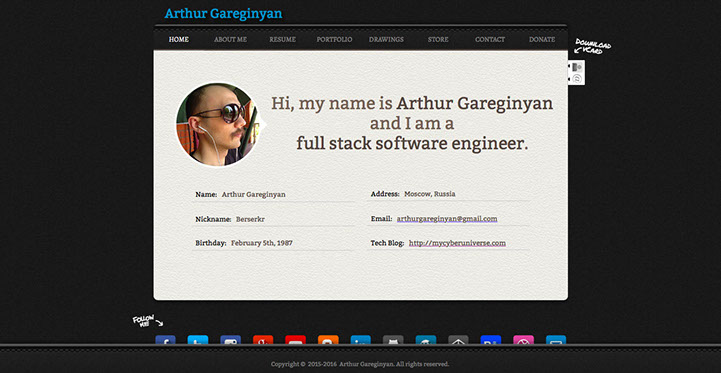
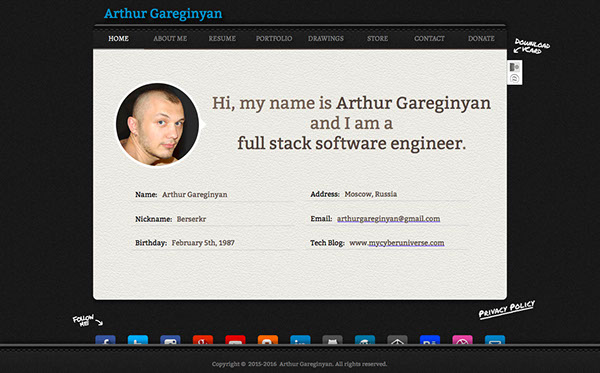
Update

diff --git a/css/master_main.css b/css/master_main.css
@@ -4,8 +4,8 @@
 	-pie-box-shadow: none;
 	box-shadow: none;
 	background-color: transparent;
-	line-height: 35px;
 	color: #0092C4;
+	line-height: 35px;
 	text-align: center;
 	font-size: 29px;
 	font-family: bitter, serif;
@@ -59,8 +59,8 @@
 	border-width: 0px;
 	border-color: transparent;
 	background-color: transparent;
-	line-height: 19px;
 	color: #7F7F7F;
+	line-height: 19px;
 	text-align: center;
 	font-size: 16px;
 	font-family: alegreya-sc, serif;
@@ -114,8 +114,8 @@
 	border-width: 0px;
 	border-color: transparent;
 	background-color: transparent;
-	line-height: 19px;
 	color: #7F7F7F;
+	line-height: 19px;
 	text-align: center;
 	font-size: 16px;
 	font-family: alegreya-sc, serif;
@@ -169,8 +169,8 @@
 	border-width: 0px;
 	border-color: transparent;
 	background-color: transparent;
-	line-height: 19px;
 	color: #7F7F7F;
+	line-height: 19px;
 	text-align: center;
 	font-size: 16px;
 	font-family: alegreya-sc, serif;
@@ -224,8 +224,8 @@
 	border-width: 0px;
 	border-color: transparent;
 	background-color: transparent;
-	line-height: 19px;
 	color: #7F7F7F;
+	line-height: 19px;
 	text-align: center;
 	font-size: 16px;
 	font-family: alegreya-sc, serif;
@@ -279,8 +279,8 @@
 	border-width: 0px;
 	border-color: transparent;
 	background-color: transparent;
-	line-height: 19px;
 	color: #7F7F7F;
+	line-height: 19px;
 	text-align: center;
 	font-size: 16px;
 	font-family: alegreya-sc, serif;
@@ -334,8 +334,8 @@
 	border-width: 0px;
 	border-color: transparent;
 	background-color: transparent;
-	line-height: 19px;
 	color: #7F7F7F;
+	line-height: 19px;
 	text-align: center;
 	font-size: 16px;
 	font-family: alegreya-sc, serif;
@@ -389,8 +389,8 @@
 	border-width: 0px;
 	border-color: transparent;
 	background-color: transparent;
-	line-height: 19px;
 	color: #7F7F7F;
+	line-height: 19px;
 	text-align: center;
 	font-size: 16px;
 	font-family: alegreya-sc, serif;
@@ -449,8 +449,8 @@
 	border-width: 0px;
 	border-color: transparent;
 	background-color: transparent;
-	line-height: 19px;
 	color: #7F7F7F;
+	line-height: 19px;
 	text-align: center;
 	font-size: 16px;
 	font-family: alegreya-sc, serif;
@@ -562,8 +562,8 @@
 #u199-4
 {
 	background-color: transparent;
-	line-height: 16px;
 	color: #777777;
+	line-height: 16px;
 	text-align: center;
 	font-size: 13px;
 	font-family: bitter, serif;

diff --git a/css/donate-success.css b/css/donate-success.css
@@ -1,7 +1,7 @@
 .version.donate_success /* version checker */
 {
-	color: #00000B;
-	background-color: #1DBFF8;
+	color: #000018;
+	background-color: #D96C7A;
 }
 
 #muse_css_mq
@@ -518,8 +518,8 @@
 #pu9685
 {
 	width: 0.01px;
-	margin-left: 88px;
-	margin-top: 22px;
+	margin-left: 73px;
+	margin-top: 7px;
 }
 
 #u9685
@@ -529,8 +529,8 @@
 	min-height: 59px;
 	position: relative;
 	margin-right: -10000px;
-	margin-top: 175px;
-	left: 875px;
+	margin-top: 190px;
+	left: 890px;
 }
 
 #u5355-10
@@ -546,8 +546,8 @@
 	font-weight: 400;
 	position: relative;
 	margin-right: -10000px;
-	margin-top: 35px;
-	left: 199px;
+	margin-top: 50px;
+	left: 214px;
 }
 
 #u9716
@@ -561,20 +561,22 @@
 	transform: matrix(0.7071,-0.7071,0.7071,0.7071,-4,10);
 	position: relative;
 	margin-right: -10000px;
-	margin-top: 90px;
-	left: 188px;
+	margin-top: 105px;
+	left: 202px;
 }
 
 #u9717
 {
 	z-index: 86;
 	width: 199px;
+	height: 200px;
 	border-color: #7F7F7F;
 	background-color: #FFFFFF;
 	border-radius: 125px;
-	padding-bottom: 5px;
 	position: relative;
 	margin-right: -10000px;
+	margin-top: 15px;
+	left: 15px;
 }
 
 #u9718
@@ -583,11 +585,14 @@
 	width: 189px;
 	height: 189px;
 	border-radius: 125px;
+	-webkit-transform: matrix(0.9703,-0.2419,0.2419,0.9703,-20,26);
+	-ms-transform: matrix(0.9703,-0.2419,0.2419,0.9703,-20,26);
+	transform: matrix(0.9703,-0.2419,0.2419,0.9703,-20,26);
 	position: relative;
 	margin-right: -10000px;
-	margin-top: 5px;
-	left: 5px;
-	background: transparent url("../images/avatar-1.jpg") no-repeat center center;
+	margin-top: 20px;
+	left: 20px;
+	background: transparent url("../images/avatar-3-dark.jpg") no-repeat center center;
 	background-size: cover;
 }
 

diff --git a/css/index.css b/css/index.css
@@ -1,7 +1,7 @@
 .version.index /* version checker */
 {
-	color: #000000;
-	background-color: #368554;
+	color: #000011;
+	background-color: #528BEB;
 }
 
 #muse_css_mq
@@ -529,8 +529,8 @@
 	width: 662px;
 	min-height: 143px;
 	background-color: transparent;
-	line-height: 46px;
 	color: #736357;
+	line-height: 46px;
 	text-align: center;
 	font-size: 38px;
 	font-family: bitter, serif;
@@ -615,8 +615,8 @@
 	width: 352px;
 	min-height: 21px;
 	background-color: transparent;
-	line-height: 19px;
 	color: #534741;
+	line-height: 19px;
 	text-align: left;
 	font-size: 16px;
 	font-family: bitter, serif;
@@ -648,8 +648,8 @@
 	width: 352px;
 	min-height: 21px;
 	background-color: transparent;
-	line-height: 19px;
 	color: #534741;
+	line-height: 19px;
 	text-align: left;
 	font-size: 16px;
 	font-family: bitter, serif;
@@ -691,8 +691,8 @@
 	width: 352px;
 	min-height: 21px;
 	background-color: transparent;
-	line-height: 19px;
 	color: #534741;
+	line-height: 19px;
 	text-align: left;
 	font-size: 16px;
 	font-family: bitter, serif;
@@ -723,8 +723,8 @@
 	width: 352px;
 	min-height: 21px;
 	background-color: transparent;
-	line-height: 19px;
 	color: #534741;
+	line-height: 19px;
 	text-align: left;
 	font-size: 16px;
 	font-family: bitter, serif;
@@ -763,8 +763,8 @@
 	width: 352px;
 	min-height: 21px;
 	background-color: transparent;
-	line-height: 19px;
 	color: #534741;
+	line-height: 19px;
 	text-align: left;
 	font-size: 16px;
 	font-family: bitter, serif;
@@ -795,8 +795,8 @@
 	width: 352px;
 	min-height: 21px;
 	background-color: transparent;
-	line-height: 19px;
 	color: #777777;
+	line-height: 19px;
 	text-align: left;
 	font-size: 16px;
 	font-family: bitter, serif;

diff --git a/donate-success.html b/donate-success.html
@@ -13,7 +13,7 @@
   <!-- CSS -->
   <link rel="stylesheet" type="text/css" href="css/site_global.css?4169160843"/>
   <link rel="stylesheet" type="text/css" href="css/master_main.css?279834166"/>
-  <link rel="stylesheet" type="text/css" href="css/donate-success.css?186499064" id="pagesheet"/>
+  <link rel="stylesheet" type="text/css" href="css/donate-success.css?416902266" id="pagesheet"/>
   <!-- Other scripts -->
   <script type="text/javascript">
    document.documentElement.className = document.documentElement.className.replace(/\bnojs\b/g, 'js');
@@ -666,9 +666,8 @@ var __adobewebfontsappname__ = "muse";
       <p>Have a good day!</p>
      </div>
      <div class="grpelem" id="u9716" data-mu-ie-matrix="progid:DXImageTransform.Microsoft.Matrix(M11=0.7071,M12=0.7071,M21=-0.7071,M22=0.7071,SizingMethod='auto expand')" data-mu-ie-matrix-dx="-4" data-mu-ie-matrix-dy="-4"><!-- simple frame --></div>
-     <div class="rounded-corners clearfix grpelem" id="u9717"><!-- group -->
-      <div class="rounded-corners grpelem" id="u9718"><!-- simple frame --></div>
-     </div>
+     <div class="rounded-corners grpelem" id="u9717"><!-- simple frame --></div>
+     <div class="rounded-corners grpelem" id="u9718" data-mu-ie-matrix="progid:DXImageTransform.Microsoft.Matrix(M11=0.9703,M12=0.2419,M21=-0.2419,M22=0.9703,SizingMethod='auto expand')" data-mu-ie-matrix-dx="-20" data-mu-ie-matrix-dy="-20"><!-- simple frame --></div>
     </div>
     <div class="verticalspacer"></div>
     <div class="clearfix colelem" id="pu1125"><!-- group -->

diff --git a/index.html b/index.html
@@ -12,8 +12,8 @@
   <title>HOME</title>
   <!-- CSS -->
   <link rel="stylesheet" type="text/css" href="css/site_global.css?4169160843"/>
-  <link rel="stylesheet" type="text/css" href="css/master_main.css?279259530"/>
-  <link rel="stylesheet" type="text/css" href="css/index.css?3573076" id="pagesheet"/>
+  <link rel="stylesheet" type="text/css" href="css/master_main.css?279834166"/>
+  <link rel="stylesheet" type="text/css" href="css/index.css?290622443" id="pagesheet"/>
   <!-- Other scripts -->
   <script type="text/javascript">
    document.documentElement.className = document.documentElement.className.replace(/\bnojs\b/g, 'js');
@@ -21,7 +21,7 @@ var __adobewebfontsappname__ = "muse";
 </script>
   <!-- JS includes -->
   <script type="text/javascript">
-   document.write('\x3Cscript src="' + (document.location.protocol == 'https:' ? 'https:' : 'http:') + '//webfonts.creativecloud.com/alegreya-sc:n4:default;bitter:n4:default.js" type="text/javascript">\x3C/script>');
+   document.write('\x3Cscript src="' + (document.location.protocol == 'https:' ? 'https:' : 'http:') + '//webfonts.creativecloud.com/bitter:n4:default;alegreya-sc:n4:default.js" type="text/javascript">\x3C/script>');
 </script>
   <!--[if lt IE 9]>
   <script src="scripts/html5shiv.js?4241844378" type="text/javascript"></script>

diff --git a/css/website-arthurgareginyan.css b/css/website-arthurgareginyan.css
@@ -1,7 +1,7 @@
 .version.website_arthurgareginyan /* version checker */
 {
-	color: #0000E8;
-	background-color: #C89994;
+	color: #000011;
+	background-color: #9C77E7;
 }
 
 #muse_css_mq
@@ -76,8 +76,8 @@
 	width: 600px;
 	min-height: 42px;
 	background-color: transparent;
-	font-size: 16px;
 	line-height: 19px;
+	font-size: 16px;
 	font-family: bitter, serif;
 	font-weight: 400;
 	position: relative;
@@ -118,8 +118,8 @@
 	width: 600px;
 	min-height: 66px;
 	background-color: transparent;
-	font-size: 16px;
 	line-height: 19px;
+	font-size: 16px;
 	font-family: bitter, serif;
 	font-weight: 400;
 	position: relative;

diff --git a/website-arthurgareginyan.html b/website-arthurgareginyan.html
@@ -13,7 +13,7 @@
   <!-- CSS -->
   <link rel="stylesheet" type="text/css" href="css/site_global.css?4169160843"/>
   <link rel="stylesheet" type="text/css" href="css/master_mini-project-page.css?3919437180"/>
-  <link rel="stylesheet" type="text/css" href="css/website-arthurgareginyan.css?3905460628" id="pagesheet"/>
+  <link rel="stylesheet" type="text/css" href="css/website-arthurgareginyan.css?295466983" id="pagesheet"/>
   <!-- Other scripts -->
   <script type="text/javascript">
    document.documentElement.className = document.documentElement.className.replace(/\bnojs\b/g, 'js');
